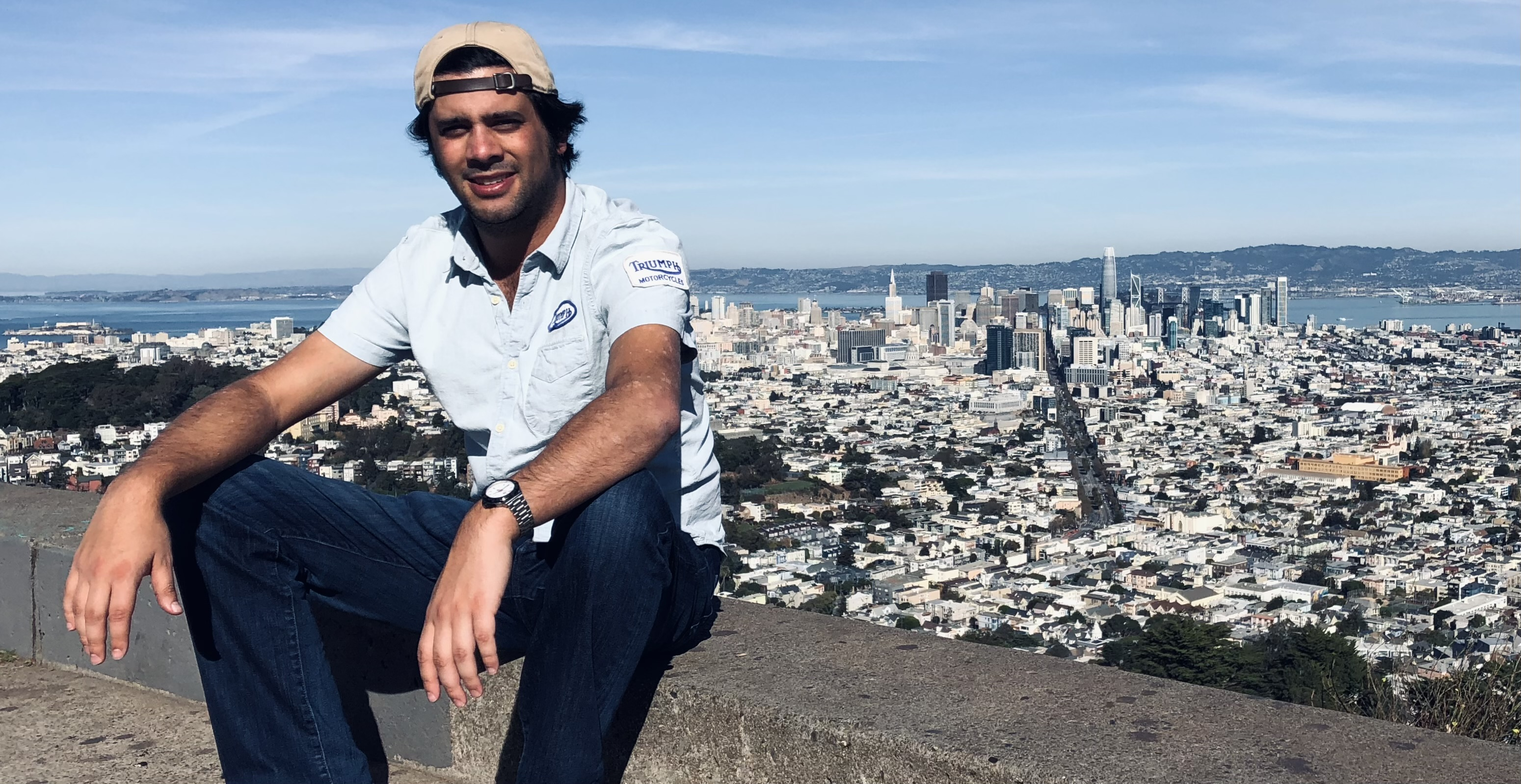
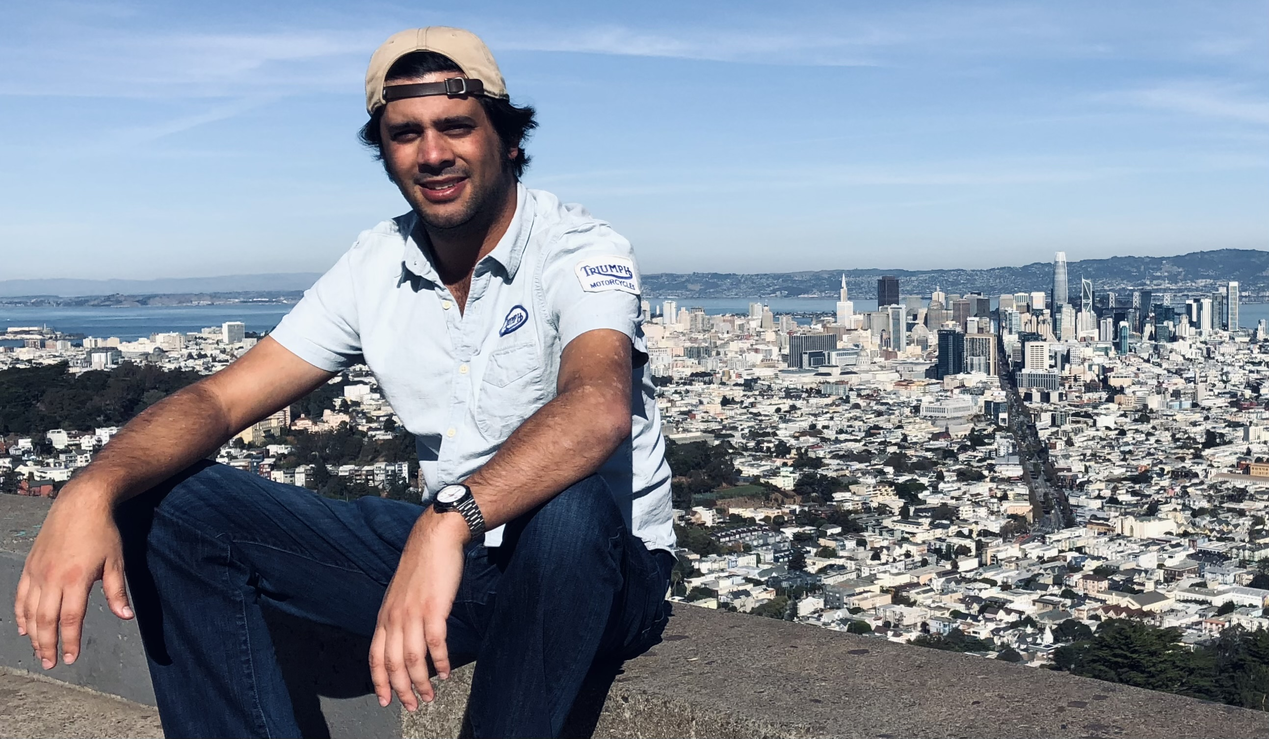
adjusted hero image size

diff --git a/Assets/style.css b/Assets/style.css
@@ -4,7 +4,8 @@
 }
 
 * {
-  font-family:'Trebuchet MS', 'Lucida Sans Unicode', 'Lucida Grande', 'Lucida Sans', Arial, sans-serif;
+  font-family: "Trebuchet MS", "Lucida Sans Unicode", "Lucida Grande",
+    "Lucida Sans", Arial, sans-serif;
 }
 
 p {
@@ -36,17 +37,6 @@ h4 {
   font-size: 12px;
   text-align: left;
   font-weight: lighter;
-}
-
-.hero-img {
-  display: flex;
-  align-items: flex-end;
-  justify-content: flex-end;
-  background-image: url(./Jeff-in-SF.jpeg);
-  background-size: cover;
-  background-position: top;
-  height: 28em;
-  width: 100%;
 }
 
 header {
@@ -81,17 +71,6 @@ main {
   background-color: white;
 }
 
-.subtitle {
-  margin: 0em 4em 4em 0em;
-  padding: 10px;
-  color: var(--dk-bl);
-  background-color: var(--seafoam);
-}
-
-.subtitle > h2 {
-  font-size: 20px;
-}
-
 section {
   display: flex;
   flex-wrap: wrap;
@@ -105,6 +84,29 @@ aside {
   padding: 10px 15px 0px 0px;
   text-align: right;
   color: var(--dk-bl);
+}
+
+.hero-img {
+  display: flex;
+  align-items: flex-end;
+  justify-content: flex-end;
+  background-image: url(./jeff-in-sf.jpeg);
+  /*My image, taken in San Francisco*/
+  background-size: cover;
+  background-position: top;
+  height: 31em;
+  width: 100%;
+}
+
+.subtitle {
+  margin: 0em 4em 4em 0em;
+  padding: 10px;
+  color: var(--dk-bl);
+  background-color: var(--seafoam);
+}
+
+.subtitle > h2 {
+  font-size: 20px;
 }
 
 #about-me {
@@ -129,6 +131,8 @@ aside {
   padding: 10px 100px 20px 25px;
   margin-bottom: 50px;
 }
+
+/*stock images sourced from unsplash.com*/
 
 .surf-report {
   width: 100%;
@@ -276,6 +280,8 @@ footer {
 }
 
 @media screen and (max-width: 953px) {
+  /*tablet & mobile settings*/
+
   h2 {
     text-align: center;
     border-bottom: var(--seafoam) solid 4px;
